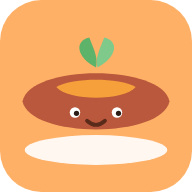
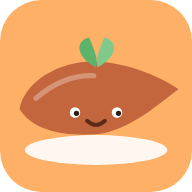
Redraw sweet potato art to match real references
- Whole potato is now a tapered spindle with a pointed end, shaded
  copper skin, lengthwise ridges and a split top when cooked
- Halves reuse the same outline cut lengthwise, flesh side up
- Fries are longer and thinner, piled crosswise, with charred flecks
  and salt specks once cooked
- Cubes are peeled, smaller and more numerous; slices get mottled flesh
- Fridge button and app icon use the same potato shape

Claude-Session: https://claude.ai/code/session_01PAsvPFio5ccmjJoKmCqHjg

Changed region(s): [[0.0938, 0.3125, 0.9375, 0.7188], [0.1562, 0.4375, 0.1875, 0.4688]]

diff --git a/public/game.js b/public/game.js
@@ -140,12 +140,14 @@
 
   /* ------------------------------------------------------------------ food */
   const COOK = {
-    raw:    { skin: '#b9583c', inside: '#f6a03c', edge: '#e38a2a', light: '#ffc98a' },
-    baked:  { skin: '#7a3b22', inside: '#f08a2a', edge: '#b85a1a', light: '#ffb060', steam: true },
-    boiled: { skin: '#cf856a', inside: '#f8b462', edge: '#e9a04a', light: '#ffd8a0', steam: true, drops: true },
-    fried:  { skin: '#9c4a24', inside: '#e9912e', edge: '#a8521a', light: '#ffc070', crisp: true, spark: true },
-    micro:  { skin: '#b46548', inside: '#f3a243', edge: '#d78a30', light: '#ffcf8a', steam: true },
+    raw:    { skin: '#c4663d', skinDark: '#9e4f2d', inside: '#f6a44a', edge: '#e38a2a', light: '#fbc27d' },
+    baked:  { skin: '#8e4a2a', skinDark: '#5e2f1b', inside: '#f08a2a', edge: '#a8521a', light: '#ffb060', steam: true, char: true },
+    boiled: { skin: '#d58f6e', skinDark: '#b06a4c', inside: '#f8b462', edge: '#e9a04a', light: '#ffd8a0', steam: true, drops: true },
+    fried:  { skin: '#b85d33', skinDark: '#86401f', inside: '#ec9330', edge: '#9a4a1c', light: '#ffc070', crisp: true, spark: true, char: true },
+    micro:  { skin: '#c56f45', skinDark: '#9a5231', inside: '#f3a243', edge: '#d78a30', light: '#ffcf8a', steam: true },
   };
+  // one tapered sweet-potato outline, reused for the whole potato and the halves
+  const SPINDLE = 'M44 118 C 52 84, 96 62, 136 64 C 180 66, 230 80, 266 96 C 232 112, 186 146, 136 152 C 96 156, 52 146, 44 118 Z';
   const FORMS = ['whole', 'halves', 'slices', 'fries', 'cubes', 'mash'];
 
   // deterministic scatter so toppings stay put between renders
@@ -154,11 +156,11 @@
     return () => { s = (s * 1664525 + 1013904223) >>> 0; return s / 4294967296; };
   }
   const REGION = {
-    whole:  { x0: 75, x1: 225, y0: 86, y1: 128 },
-    halves: { x0: 45, x1: 255, y0: 84, y1: 130 },
-    slices: { x0: 40, x1: 260, y0: 84, y1: 134 },
-    fries:  { x0: 70, x1: 230, y0: 70, y1: 140 },
-    cubes:  { x0: 55, x1: 245, y0: 78, y1: 138 },
+    whole:  { x0: 80, x1: 230, y0: 80, y1: 134 },
+    halves: { x0: 50, x1: 250, y0: 84, y1: 132 },
+    slices: { x0: 45, x1: 255, y0: 84, y1: 134 },
+    fries:  { x0: 75, x1: 225, y0: 76, y1: 140 },
+    cubes:  { x0: 70, x1: 230, y0: 82, y1: 138 },
     mash:   { x0: 85, x1: 215, y0: 62, y1: 96 },
   };
 
@@ -188,35 +190,54 @@
     const form = food.form;
     let g = '';
     const spots = (n, box) => { const rnd = seeded('spots' + form); let s = ''; for (let i = 0; i < n; i++) s += `<ellipse cx="${box.x0 + rnd() * (box.x1 - box.x0)}" cy="${box.y0 + rnd() * (box.y1 - box.y0)}" rx="3" ry="2" fill="#000" opacity=".12"/>`; return s; };
+    const gid = 'skin-' + food.cook;
+    const skinGrad = `<defs><radialGradient id="${gid}" cx="38%" cy="32%" r="80%"><stop offset="0" stop-color="${c.skin}"/><stop offset="1" stop-color="${c.skinDark}"/></radialGradient></defs>`;
+    const flecks = (n, x0, x1, y0, y1, seed) => { // crispy brown bits on fried / baked food
+      if (!c.char) return ''; const rnd = seeded('char' + seed + form); let o = '';
+      for (let i = 0; i < n; i++) { const fx = x0 + rnd() * (x1 - x0), fy = y0 + rnd() * (y1 - y0); o += `<rect x="${fx}" y="${fy}" width="${5 + rnd() * 7}" height="3" rx="1.5" fill="#6b2f12" opacity=".55" transform="rotate(${rnd() * 180} ${fx} ${fy})"/>`; }
+      return o; };
     switch (form) {
       case 'whole': {
-        const body = 'M62 118 C 70 70, 140 52, 190 66 C 232 78, 252 100, 238 128 C 224 156, 150 164, 104 150 C 72 140, 56 134, 62 118 Z';
-        g += `<path d="M62 118 c-12 -2 -20 4 -26 12" stroke="${c.skin}" stroke-width="6" fill="none" stroke-linecap="round"/>`;
-        g += `<path d="M238 126 c10 2 16 8 18 16" stroke="${c.skin}" stroke-width="5" fill="none" stroke-linecap="round"/>`;
-        g += `<path d="${body}" fill="${c.skin}"/>`;
-        g += `<path d="M88 104 c 22 -20 60 -28 104 -22" stroke="#fff" stroke-width="6" fill="none" stroke-linecap="round" opacity=".22"/>`;
-        g += spots(8, { x0: 90, x1: 225, y0: 84, y1: 140 });
-        if (food.cook !== 'raw') g += `<path d="M104 96 C 130 76, 190 74, 218 92 C 200 112, 132 118, 104 96Z" fill="${c.inside}"/><path d="M116 94 c22 -10 64 -12 90 -4" stroke="${c.light}" stroke-width="4" fill="none" stroke-linecap="round" opacity=".8"/>`;
-        if (c.crisp) g += `<path d="${body}" fill="none" stroke="${c.edge}" stroke-width="6" stroke-dasharray="14 10" opacity=".6"/>`;
+        g += skinGrad;
+        g += `<path d="${SPINDLE}" fill="url(#${gid})"/>`;
+        g += `<path d="M62 104 C 100 80, 150 74, 230 86 M64 130 C 110 144, 180 136, 244 104" stroke="${c.skinDark}" stroke-width="3" fill="none" stroke-linecap="round" opacity=".35"/>`;
+        g += `<path d="M70 102 C 96 84, 124 76, 156 76" stroke="#fff" stroke-width="7" fill="none" stroke-linecap="round" opacity=".3"/>`;
+        g += spots(9, { x0: 70, x1: 240, y0: 80, y1: 142 });
+        if (food.cook !== 'raw') g += `<path d="M94 94 C 130 74, 192 76, 228 90 C 198 106, 136 110, 94 94Z" fill="${c.inside}"/><path d="M110 92 c24 -10 68 -12 100 -4" stroke="${c.light}" stroke-width="4" fill="none" stroke-linecap="round" opacity=".85"/>`;
+        if (c.crisp) g += `<path d="${SPINDLE}" fill="none" stroke="${c.edge}" stroke-width="5" stroke-dasharray="12 10" opacity=".55"/>`;
         break; }
       case 'halves':
-        for (const x of [92, 208]) g += `<g transform="rotate(${x < 150 ? -8 : 8} ${x} 110)"><ellipse cx="${x}" cy="110" rx="56" ry="38" fill="${c.inside}" stroke="${c.skin}" stroke-width="10"/><ellipse cx="${x}" cy="110" rx="34" ry="20" fill="none" stroke="${c.light}" stroke-width="3" opacity=".8"/><ellipse cx="${x}" cy="110" rx="12" ry="7" fill="${c.edge}" opacity=".5"/></g>`;
+        g += skinGrad;
+        [[-44, -6], [40, 6]].forEach(([dx, rot], i) => {
+          g += `<g transform="translate(${dx} 0) rotate(${rot} 155 108) translate(155 108) scale(.78 .74) translate(-155 -108)">
+            <path d="${SPINDLE}" fill="${c.inside}" stroke="url(#${gid})" stroke-width="12"/>
+            <path d="${SPINDLE}" fill="none" stroke="${c.light}" stroke-width="3" opacity=".8" transform="translate(155 108) scale(.72) translate(-155 -108)"/>
+            <ellipse cx="150" cy="108" rx="22" ry="10" fill="${c.edge}" opacity=".35"/>${flecks(5, 80, 230, 84, 132, 'h' + i)}</g>`;
+        });
         break;
       case 'slices':
-        [[56, 108], [104, 118], [150, 104], [196, 118], [244, 108]].forEach(([x, y], i) => {
-          g += `<g transform="rotate(${(i - 2) * 6} ${x} ${y})"><circle cx="${x}" cy="${y}" r="32" fill="${c.inside}" stroke="${c.skin}" stroke-width="7"/><circle cx="${x}" cy="${y}" r="18" fill="none" stroke="${c.light}" stroke-width="3" opacity=".8"/><circle cx="${x}" cy="${y}" r="6" fill="${c.edge}" opacity=".5"/></g>`;
+        [[56, 108, -8], [102, 118, 6], [150, 104, -4], [198, 118, 8], [244, 108, -6]].forEach(([x, y, a], i) => {
+          const rnd = seeded('slice' + i); let mottle = '';
+          for (let k = 0; k < 4; k++) mottle += `<ellipse cx="${x - 14 + rnd() * 28}" cy="${y - 14 + rnd() * 28}" rx="${5 + rnd() * 6}" ry="${3 + rnd() * 4}" fill="${c.light}" opacity=".55" transform="rotate(${rnd() * 180} ${x} ${y})"/>`;
+          g += `<g transform="rotate(${a} ${x} ${y})"><circle cx="${x}" cy="${y}" r="32" fill="${c.inside}" stroke="${c.skin}" stroke-width="5"/>${mottle}<circle cx="${x}" cy="${y}" r="20" fill="none" stroke="${c.edge}" stroke-width="2" opacity=".35"/>${flecks(3, x - 24, x + 24, y - 24, y + 24, 's' + i)}</g>`;
         });
         break;
-      case 'fries':
-        [[90, 112, -28], [112, 100, -16], [134, 96, -8], [152, 94, 0], [170, 96, 8], [190, 102, 16], [212, 112, 26], [122, 118, -40], [180, 120, 40]].forEach(([x, y, a]) => {
-          g += `<g transform="rotate(${a} ${x} ${y})"><rect x="${x - 10}" y="${y - 50}" width="20" height="100" rx="7" fill="${c.inside}" stroke="${c.crisp ? c.edge : c.skin}" stroke-width="3"/><rect x="${x - 5}" y="${y - 42}" width="4" height="84" rx="2" fill="${c.light}" opacity=".6"/></g>`;
+      case 'fries': {
+        const fries = [[92, 118, -64], [114, 104, -48], [130, 98, -30], [150, 94, -12], [168, 96, 4], [186, 100, 20], [206, 110, 38], [222, 120, 56], [104, 124, -80], [140, 120, 72], [176, 124, -72], [160, 112, 86], [122, 112, 50]];
+        fries.forEach(([x, y, a], i) => {
+          const rnd = seeded('fry' + i); let bits = '';
+          if (c.char) for (let k = 0; k < 3; k++) bits += `<rect x="${x - 7 + rnd() * 10}" y="${y - 44 + rnd() * 84}" width="4" height="${4 + rnd() * 8}" rx="2" fill="#6b2f12" opacity=".55"/>`;
+          if (food.cook !== 'raw') for (let k = 0; k < 2; k++) bits += `<circle cx="${x - 5 + rnd() * 10}" cy="${y - 40 + rnd() * 80}" r="1.6" fill="#fff" opacity=".8"/>`;
+          g += `<g transform="rotate(${a} ${x} ${y})"><rect x="${x - 7}" y="${y - 50}" width="14" height="100" rx="4" fill="${c.inside}" stroke="${c.crisp || c.char ? c.edge : c.skin}" stroke-width="2.5"/><rect x="${x - 4}" y="${y - 44}" width="3" height="88" rx="1.5" fill="${c.light}" opacity=".7"/>${bits}</g>`;
         });
-        break;
-      case 'cubes':
-        [[80, 100, -10], [118, 92, 8], [156, 90, -6], [194, 96, 12], [226, 108, -8], [98, 130, 14], [138, 128, -12], [176, 126, 6], [212, 134, -14], [60, 128, 10]].forEach(([x, y, a]) => {
-          g += `<g transform="rotate(${a} ${x} ${y})"><rect x="${x - 18}" y="${y - 18}" width="36" height="36" rx="7" fill="${c.inside}" stroke="${c.crisp ? c.edge : c.skin}" stroke-width="3"/><path d="M${x - 10} ${y - 10} h14" stroke="${c.light}" stroke-width="4" stroke-linecap="round" opacity=".8"/></g>`;
+        break; }
+      case 'cubes': {
+        const rnd = seeded('cubes'); const cubes = [];
+        for (let i = 0; i < 17; i++) cubes.push([82 + rnd() * 136, 86 + rnd() * 50, rnd() * 40 - 20, 22 + rnd() * 8]);
+        cubes.sort((a, b) => a[1] - b[1]).forEach(([x, y, a, sz], i) => {
+          g += `<g transform="rotate(${a} ${x} ${y})"><rect x="${x - sz / 2}" y="${y - sz / 2}" width="${sz}" height="${sz}" rx="4" fill="${c.inside}" stroke="${c.edge}" stroke-width="2"/><rect x="${x - sz / 2 + 4}" y="${y - sz / 2 + 3}" width="${sz - 8}" height="4" rx="2" fill="${c.light}" opacity=".8"/>${flecks(2, x - sz / 2, x + sz / 2 - 8, y - sz / 2, y + sz / 2, 'c' + i)}</g>`;
         });
-        break;
+        break; }
       case 'mash':
         g += `<path d="M52 104 h196 c0 50 -40 76 -98 76 s-98 -26 -98 -76z" fill="#9fd1ea"/>`;
         g += `<path d="M72 104 c6 -34 36 -52 78 -52 s72 18 78 52z" fill="${c.inside}"/>`;

diff --git a/public/index.html b/public/index.html
@@ -39,7 +39,7 @@
       <button id="fridge" class="big" aria-label="Get a sweet potato">
         <div class="fridge-door">
           <span class="handle"></span>
-          <svg viewBox="0 0 100 60" class="fridge-potato"><path d="M10 30c5-14 75-14 80 0-5 14-75 14-80 0z" fill="#c25e3b"/><path d="M28 24c8-3 14 3 20 1s11-5 20 0" stroke="#e2805c" stroke-width="3" fill="none" stroke-linecap="round" opacity=".7"/></svg>
+          <svg viewBox="0 0 100 60" class="fridge-potato"><path d="M8 32 C 12 18, 34 10, 50 11 C 66 12, 84 20, 94 26 C 82 32, 66 46, 50 48 C 34 50, 14 44, 8 32z" fill="#c4663d"/><path d="M20 28 C 32 18, 44 16, 56 17" stroke="#fff" stroke-width="3" fill="none" stroke-linecap="round" opacity=".35"/></svg>
         </div>
         <span class="fridge-label">tap!</span>
       </button>
